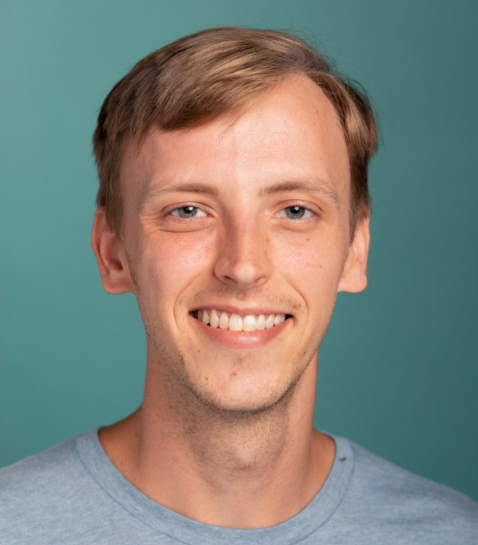
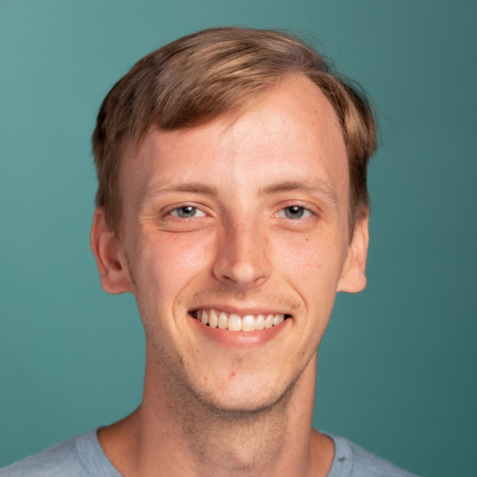
fix spacing and picture

diff --git a/src/components/AboutMe/AboutMe.css b/src/components/AboutMe/AboutMe.css
@@ -1,19 +1,20 @@
 .AboutMeParent {
-  background-color: #091520;
+  background-color: #001220;
   position: relative;
-  height: 400px;
+  height: 265px;
   margin: auto;
   display: flex;
   flex-direction: row;
-  padding-top: 40px;
+  padding-bottom: 50px;
 }
 
 .AboutMeCol {
   width: 50%;
   color: white;
   display: flex;
-  flex-direction: column;
   text-align: left;
+  justify-content: center;
+  align-items: center;
 }
 
 .AboutMeHeadingText::after {
@@ -52,7 +53,6 @@
   border-radius: 50%;
   width: 50%;
   align-self: center;
-  padding-top: 20px;
   opacity: 0;
   animation: fadeIn 1s forwards;
   animation-delay: 150ms;
@@ -62,7 +62,7 @@
   .AboutMeParent {
     flex-direction: column;
     align-items: center;
-    height: 600px;
+    height: 470px;
   }
 
   .AboutMeText {
